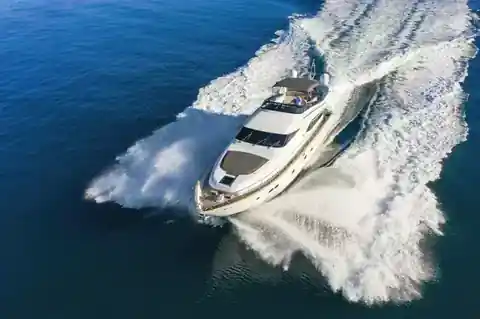
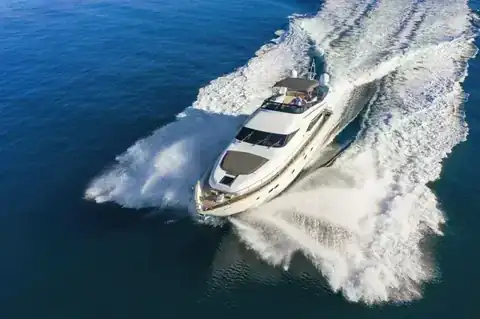
Balance hero sharpness with responsive 480w/720w tiers
Raise hero -480 WebP quality to q=52 for 1x phones and restore -720
in the mobile srcset at q=58 so retina viewports avoid a soft upscale.
Keep aggressive compression on landscape destination cards only.

diff --git a/de/index.html b/de/index.html
@@ -4,7 +4,7 @@
 <meta charset="UTF-8" />
 <meta name="viewport" content="width=device-width, initial-scale=1.0" />
 <!-- Preload hero image (LCP) — must precede deferred head scripts -->
-<link rel="preload" as="image" imagesrcset="/images/mobile/maiora_20s_02-480.webp 480w" imagesizes="100vw" type="image/webp" fetchpriority="high" media="(max-width: 640px)" />
+<link rel="preload" as="image" imagesrcset="/images/mobile/maiora_20s_02-480.webp 480w, /images/mobile/maiora_20s_02-720.webp 720w" imagesizes="100vw" type="image/webp" fetchpriority="high" media="(max-width: 640px)" />
 <link rel="preload" as="image" href="/images/maiora_20s_02.webp" type="image/webp" fetchpriority="high" media="(min-width: 641px)" />
 <link rel="preload" as="font" href="../fonts/montserrat-latin.woff2" type="font/woff2" crossorigin />
 <style id="critical-css">
@@ -281,7 +281,7 @@ nav{position:fixed;top:0;left:0;right:0;z-index:100;min-height:4.25rem}
 <!-- HERO -->
 <section id="hero">
   <picture class="hero-bg-wrap">
-    <source srcset="/images/mobile/maiora_20s_02-480.webp 480w" sizes="100vw" type="image/webp" media="(max-width: 640px)">
+    <source srcset="/images/mobile/maiora_20s_02-480.webp 480w, /images/mobile/maiora_20s_02-720.webp 720w" sizes="100vw" type="image/webp" media="(max-width: 640px)">
     <source srcset="/images/maiora_20s_02.webp 960w" sizes="100vw" type="image/webp">
     <img class="hero-bg" src="/images/maiora_20s_02.jpg" alt="" width="1920" height="1080" fetchpriority="high" decoding="sync" aria-hidden="true">
   </picture>

diff --git a/es/index.html b/es/index.html
@@ -4,7 +4,7 @@
 <meta charset="UTF-8" />
 <meta name="viewport" content="width=device-width, initial-scale=1.0" />
 <!-- Preload hero image (LCP) — must precede deferred head scripts -->
-<link rel="preload" as="image" imagesrcset="/images/mobile/maiora_20s_02-480.webp 480w" imagesizes="100vw" type="image/webp" fetchpriority="high" media="(max-width: 640px)" />
+<link rel="preload" as="image" imagesrcset="/images/mobile/maiora_20s_02-480.webp 480w, /images/mobile/maiora_20s_02-720.webp 720w" imagesizes="100vw" type="image/webp" fetchpriority="high" media="(max-width: 640px)" />
 <link rel="preload" as="image" href="/images/maiora_20s_02.webp" type="image/webp" fetchpriority="high" media="(min-width: 641px)" />
 <link rel="preload" as="font" href="../fonts/montserrat-latin.woff2" type="font/woff2" crossorigin />
 <style id="critical-css">
@@ -281,7 +281,7 @@ nav{position:fixed;top:0;left:0;right:0;z-index:100;min-height:4.25rem}
 <!-- HERO -->
 <section id="hero">
   <picture class="hero-bg-wrap">
-    <source srcset="/images/mobile/maiora_20s_02-480.webp 480w" sizes="100vw" type="image/webp" media="(max-width: 640px)">
+    <source srcset="/images/mobile/maiora_20s_02-480.webp 480w, /images/mobile/maiora_20s_02-720.webp 720w" sizes="100vw" type="image/webp" media="(max-width: 640px)">
     <source srcset="/images/maiora_20s_02.webp 960w" sizes="100vw" type="image/webp">
     <img class="hero-bg" src="/images/maiora_20s_02.jpg" alt="" width="1920" height="1080" fetchpriority="high" decoding="sync" aria-hidden="true">
   </picture>

diff --git a/fr/index.html b/fr/index.html
@@ -4,7 +4,7 @@
 <meta charset="UTF-8" />
 <meta name="viewport" content="width=device-width, initial-scale=1.0" />
 <!-- Preload hero image (LCP) — must precede deferred head scripts -->
-<link rel="preload" as="image" imagesrcset="/images/mobile/maiora_20s_02-480.webp 480w" imagesizes="100vw" type="image/webp" fetchpriority="high" media="(max-width: 640px)" />
+<link rel="preload" as="image" imagesrcset="/images/mobile/maiora_20s_02-480.webp 480w, /images/mobile/maiora_20s_02-720.webp 720w" imagesizes="100vw" type="image/webp" fetchpriority="high" media="(max-width: 640px)" />
 <link rel="preload" as="image" href="/images/maiora_20s_02.webp" type="image/webp" fetchpriority="high" media="(min-width: 641px)" />
 <link rel="preload" as="font" href="../fonts/montserrat-latin.woff2" type="font/woff2" crossorigin />
 <style id="critical-css">
@@ -281,7 +281,7 @@ nav{position:fixed;top:0;left:0;right:0;z-index:100;min-height:4.25rem}
 <!-- HERO -->
 <section id="hero">
   <picture class="hero-bg-wrap">
-    <source srcset="/images/mobile/maiora_20s_02-480.webp 480w" sizes="100vw" type="image/webp" media="(max-width: 640px)">
+    <source srcset="/images/mobile/maiora_20s_02-480.webp 480w, /images/mobile/maiora_20s_02-720.webp 720w" sizes="100vw" type="image/webp" media="(max-width: 640px)">
     <source srcset="/images/maiora_20s_02.webp 960w" sizes="100vw" type="image/webp">
     <img class="hero-bg" src="/images/maiora_20s_02.jpg" alt="" width="1920" height="1080" fetchpriority="high" decoding="sync" aria-hidden="true">
   </picture>

diff --git a/index.html b/index.html
@@ -4,7 +4,7 @@
 <meta charset="UTF-8" />
 <meta name="viewport" content="width=device-width, initial-scale=1.0" />
 <!-- Preload hero image (LCP) — must precede deferred head scripts -->
-<link rel="preload" as="image" imagesrcset="images/mobile/maiora_20s_02-480.webp 480w" imagesizes="100vw" type="image/webp" fetchpriority="high" media="(max-width: 640px)" />
+<link rel="preload" as="image" imagesrcset="images/mobile/maiora_20s_02-480.webp 480w, images/mobile/maiora_20s_02-720.webp 720w" imagesizes="100vw" type="image/webp" fetchpriority="high" media="(max-width: 640px)" />
 <link rel="preload" as="image" href="images/maiora_20s_02.webp" type="image/webp" fetchpriority="high" media="(min-width: 641px)" />
 <link rel="preload" as="font" href="fonts/montserrat-latin.woff2" type="font/woff2" crossorigin />
 <style id="critical-css">
@@ -281,7 +281,7 @@ nav{position:fixed;top:0;left:0;right:0;z-index:100;min-height:4.25rem}
 <!-- HERO -->
 <section id="hero">
   <picture class="hero-bg-wrap">
-    <source srcset="images/mobile/maiora_20s_02-480.webp 480w" sizes="100vw" type="image/webp" media="(max-width: 640px)">
+    <source srcset="images/mobile/maiora_20s_02-480.webp 480w, images/mobile/maiora_20s_02-720.webp 720w" sizes="100vw" type="image/webp" media="(max-width: 640px)">
     <source srcset="images/maiora_20s_02.webp 960w" sizes="100vw" type="image/webp">
     <img class="hero-bg" src="images/maiora_20s_02.jpg" alt="" width="1920" height="1080" fetchpriority="high" decoding="sync" aria-hidden="true">
   </picture>

diff --git a/scripts/optimize_responsive_images.py b/scripts/optimize_responsive_images.py
@@ -29,19 +29,22 @@ TIERS = (
     ("-1440", 1440, 66),
 )
 MOBILE_WEBP_Q = 72
-# Lighthouse image-delivery: landscape dest -480 and hero -480 need extra compression.
+# Lighthouse image-delivery: landscape dest -480 needs extra compression.
+# Hero keeps sharper -480 for 1x and serves -720 on 2x (see hero srcset max_suffix).
 DELIVERY_TIGHT_480_Q = 30
-HERO_480_Q = 32
+HERO_480_Q = 52
+HERO_720_Q = 58
 TIER_SUFFIXES = tuple(suffix for suffix, _, _ in TIERS)
 TIER_ORDER = {suffix: index for index, (suffix, _, _) in enumerate(TIERS)}
 
 
 def tier_quality(src_path: Path, suffix: str, tier_img: Image.Image, default_q: int) -> int:
-    if suffix != "-480":
-        return default_q
     if src_path.name == "maiora_20s_02.webp":
-        return HERO_480_Q
-    if src_path.parent.name == "dest" and tier_img.size[0] >= 480:
+        if suffix == "-480":
+            return HERO_480_Q
+        if suffix == "-720":
+            return HERO_720_Q
+    if suffix == "-480" and src_path.parent.name == "dest" and tier_img.size[0] >= 480:
         return DELIVERY_TIGHT_480_Q
     return default_q
 
@@ -213,7 +216,7 @@ def write_srcsets(widths: dict[str, int]) -> None:
     html = patch_dest_srcsets(html, widths)
 
     hero_mobile = srcset_for_base(
-        "images/mobile/maiora_20s_02.webp", widths, include_master=False, max_suffix="-480"
+        "images/mobile/maiora_20s_02.webp", widths, include_master=False, max_suffix="-720"
     )
     html = re.sub(
         r'<source srcset="[^"]*maiora_20s_02[^"]*" '

diff --git a/scripts/test-site.py b/scripts/test-site.py
@@ -567,7 +567,8 @@ def check_html(r: Runner, rel: str, html: str) -> None:
         'responsive hero image preloads',
         'imagesrcset="' in html
         and 'maiora_20s_02-480.webp 480w' in html
-        and 'maiora_20s_02-1440' not in html.split('imagesrcset=')[1][:200]
+        and 'maiora_20s_02-720.webp 720w' in html
+        and 'maiora_20s_02-1440' not in html.split('imagesrcset=')[1][:250]
         and 'maiora_20s_02.webp' in html
         and 'fetchpriority="high"' in html,
     )